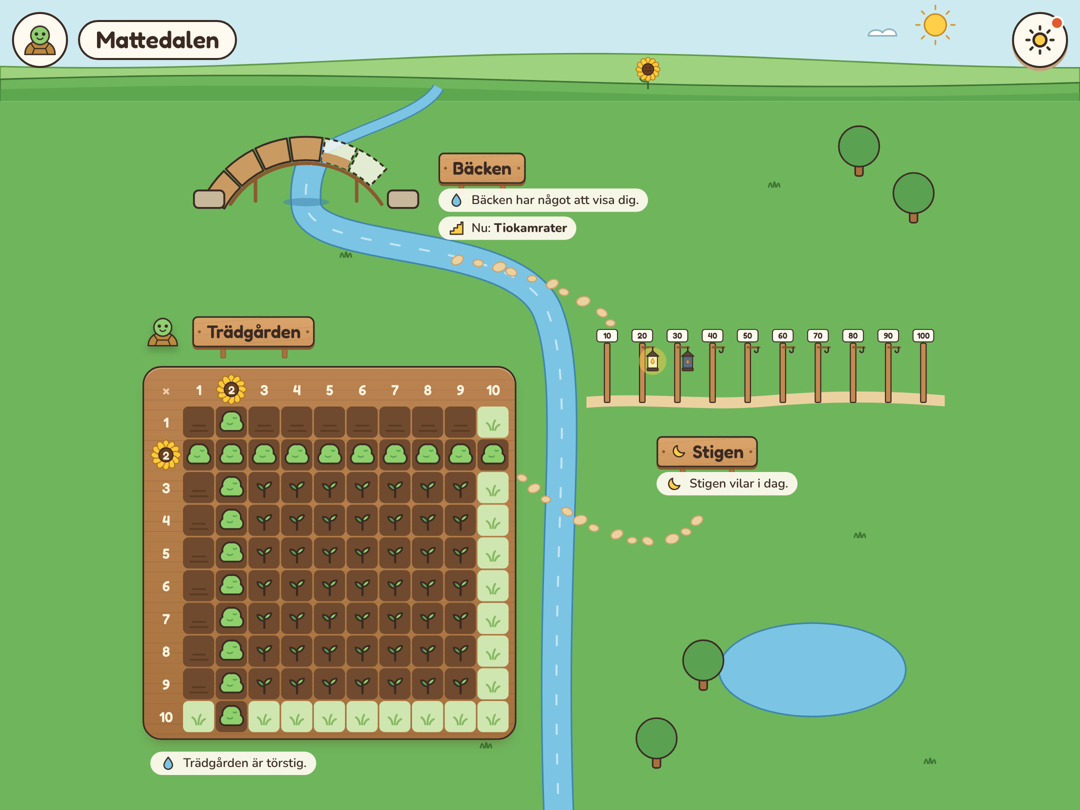
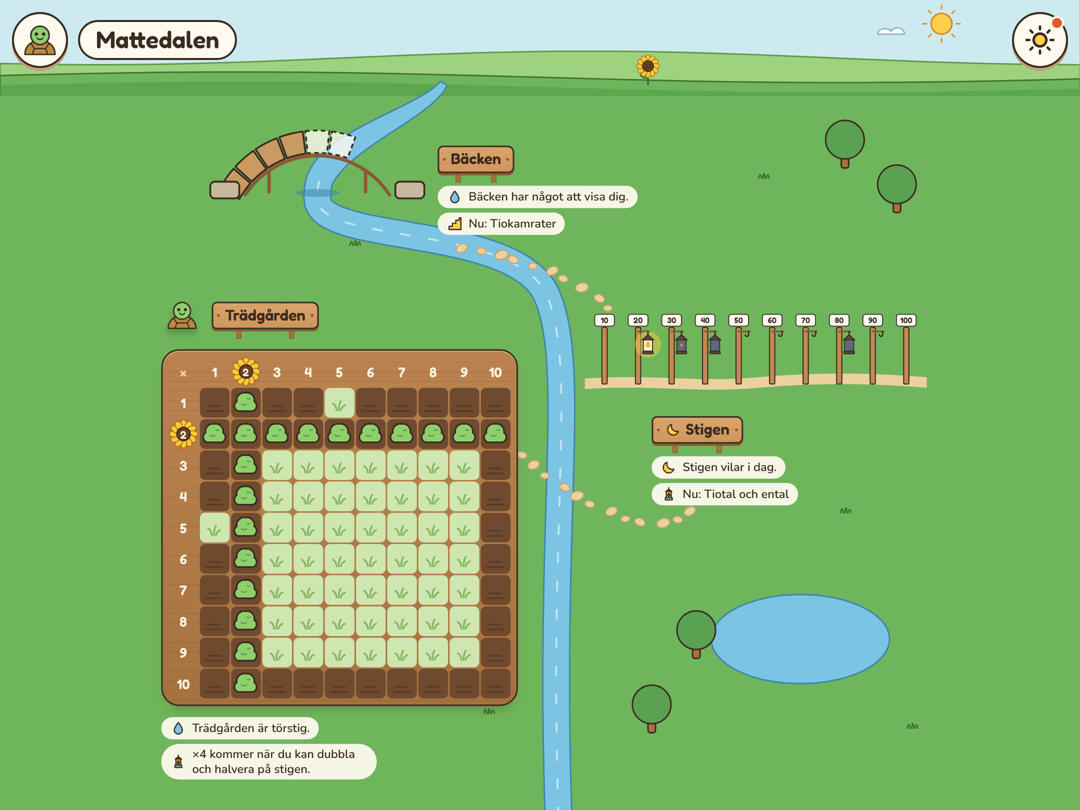
K3: kartan verifierad i alla storlekar
- Skärmbilder av fyra lägen (nytt barn, tre platser, "I dag" öppen och
  trädgården som sover) i sex storlekar. Sidan rullar aldrig.
- Raderna vid en plats bryts i stället för att klippas, och telefonen
  visar bäckens skylt och rader hela på 320 och 360 px.
- Tester för skärmläsare och tangentbord: platserna som en lista med
  skyltar, bilderna i ord, pilarna dolda och utanför tabbordningen, och
  en skylt med fokus rullas in i bild. Med minskad rörelse hoppar kartan.
- PLAN-DALEN med skärmbilder från appen och fynden från K3. R3 är klar i
  färdplanen, och föräldravyn (F) är nästa.

Claude-Session: https://claude.ai/code/session_01NsFq2fAnJdt6rfqAWR7PjB

diff --git a/e2e/valley.spec.ts b/e2e/valley.spec.ts
@@ -306,3 +306,40 @@ test('back from a place, the map stands at that place', async ({ page }) => {
   await expect(page.locator('.map-place.here .map-sign')).toHaveText('Trädgården');
   await expect(page.locator('.map-place.here .map-guide')).toHaveCount(1);
 });
+
+test.describe('the map for a screen reader and the keyboard', () => {
+  test.use({ viewport: { width: 360, height: 760 } });
+
+  test('the places are a list of signs, the pictures are words, and the pointers stay out of the way', async ({ page }) => {
+    await page.goto('/');
+    await createProfile(page, 'Alva');
+    await page.getByRole('button', { name: 'Till dalen' }).click();
+    const list = page.getByRole('list', { name: 'Platserna i dalen' });
+    await expect(list.getByRole('listitem')).toHaveCount(3);
+    await expect(list.getByRole('button')).toHaveText(['Bäcken', 'Stigen', 'Trädgården']);
+    // Every picture is hidden from a screen reader and said in words instead.
+    await expect(page.locator('.map-art:not([aria-hidden="true"])')).toHaveCount(0);
+    await expect(list.getByText(/^Bron har \d+ av \d+ stenar på plats\.$/)).toBeAttached();
+    await expect(list.getByText(/^På stigen lyser \d+ av \d+ lyktor\./)).toBeAttached();
+    await expect(list.getByText('Lådan väntar på de första fröna.')).toBeAttached();
+    // The pointers are a shortcut for those who see: hidden, and out of the tab order.
+    await page.locator('.map-view').evaluate((el) => el.scrollTo(el.scrollWidth, el.scrollHeight));
+    await expect(page.locator('.map-pointer').first()).toBeAttached();
+    await expect(page.locator('.map-pointers')).toHaveAttribute('aria-hidden', 'true');
+    expect(await page.locator('.map-pointer').evaluateAll((els) => els.every((el) => (el as HTMLElement).tabIndex === -1))).toBe(true);
+    // A sign that gets focus is scrolled into view.
+    await page.getByRole('button', { name: /^Bäcken\./ }).focus();
+    await expect.poll(() => inView(page, 'Bäcken')).toBe(true);
+  });
+
+  test('with reduced motion the map jumps instead of gliding', async ({ page }) => {
+    await page.emulateMedia({ reducedMotion: 'reduce' });
+    await page.goto('/');
+    await createProfile(page, 'Alva');
+    await page.getByRole('button', { name: 'Till dalen' }).click();
+    await page.locator('.map-view').evaluate((el) => el.scrollTo(el.scrollWidth, el.scrollHeight));
+    await page.locator('.map-pointer', { hasText: 'Bäcken' }).click();
+    // At once, without waiting for a glide.
+    expect(await inView(page, 'Bäcken')).toBe(true);
+  });
+});

diff --git a/src/shell/valleyLayout.ts b/src/shell/valleyLayout.ts
@@ -33,7 +33,7 @@ export interface Spot {
 
 export const SPOTS: Record<string, Spot> = {
   // The arch over the brook, high up where the brook comes out of the hills; the sign on the bank.
-  backen: { art: { x: 100, y: 168, w: 300 }, sign: { x: 420, y: 196 }, notes: { x: 420, y: 250 }, box: { x: 90, y: 160, w: 640, h: 180 }, focusX: 480 },
+  backen: { art: { x: 100, y: 168, w: 300 }, sign: { x: 412, y: 196 }, notes: { x: 412, y: 250 }, box: { x: 90, y: 160, w: 640, h: 180 }, focusX: 530 },
   // The posts and lanterns along the far bank.
   stigen: { art: { x: 610, y: 400, w: 460 }, sign: { x: 700, y: 560 }, notes: { x: 700, y: 614 }, box: { x: 600, y: 390, w: 470, h: 290 }, focusX: 780 },
   // The whole bed on this side of the brook.

diff --git a/src/shell/styles.css b/src/shell/styles.css
@@ -1174,7 +1174,8 @@ h1:focus {
   flex-direction: column;
   align-items: flex-start;
   gap: 6px;
-  max-width: 420px;
+  /* Narrow enough to fit a small phone beside the place's sign; longer lines wrap. */
+  max-width: 290px;
 }
 
 /* Today's state and what the child is on now: small paper labels in the grass. */

diff --git a/docs/PLAN-DALEN.md b/docs/PLAN-DALEN.md
@@ -17,13 +17,13 @@ På en surfplatta eller dator syns hela dalen på en gång.
 
 ## Bilder
 
-Bilderna är från en attrapp byggd av appens egna delar.
+Bilderna är skärmbilder från appen, för ett barn som har alla tre platser.
 
 ![Telefon: trädgården i bild, pilar mot platserna utanför; samma vy med ”I dag” öppen](img/karta-telefon.png)
 
 *Telefon, 360 px. Till vänster öppnar dalen vid trädgården. Pilarna i kanten
 pekar mot bäcken och stigen. Till höger har barnet tryckt på solen i hörnet,
-och ”I dag” visar vad som återstår.*
+och ”I dag” visar vad som återstår och att stigen vilar.*
 
 ![Surfplatta liggande: hela dalen på en gång](img/karta-bred.png)
 
@@ -102,7 +102,7 @@ och ”I dag” visar vad som återstår.*
 |---|---|
 | K1. Kartan **(klar)** | Kartan med platserna i full storlek, valvbron, bäcken och stenarna, dra runt på telefon, hela dalen på breda skärmar, pilar i kanten, startläge vid dagens plats. Ersätter scenerna från R3a. |
 | K2. I dag och vägen tillbaka **(klar)** | Solen i hörnet och kortet ”I dag” som startar passet. Tillbaka från en plats leder till kartan vid samma plats. |
-| K3. Verifiering | Skärmbilder i alla storlekar, tester för att dra, pilar, ”I dag” och skärmläsare, dokumenten. |
+| K3. Verifiering **(klar)** | Skärmbilder i alla storlekar, tester för att dra, pilar, ”I dag” och skärmläsare, dokumenten. |
 
 ## Fynd från K1
 
@@ -131,6 +131,24 @@ och ”I dag” visar vad som återstår.*
   Dagens plats gäller när barnet kommer från ”Vem spelar?”.
 - **På en telefon på 320 px** blir namnet ”Mattedalen” lite mindre, så att
   solen i andra hörnet får plats.
+
+## Fynd från K3
+
+- **Skärmbilder** av fyra lägen (nytt barn, tre platser, ”I dag” öppen och
+  trädgården som sover) i sex storlekar, från 320 px till dator. Sidan rullar
+  aldrig, varken i sidled eller nedåt.
+- **Raderna vid bäcken klipptes** på en telefon på 320 och 360 px. Raderna vid
+  en plats bryts nu i stället, och telefonen visar bäckens skylt och rader. Bron
+  ligger en bit till vänster, och barnet når den genom att dra.
+- **Uppläsningen fastnade** på en Samsung Galaxy S25 med Chrome och blev tyst
+  tills telefonen startades om. Talmotorn väcks nu före varje uppläsning, och en
+  uppläsning som inte börjar görs om en gång (se
+  [TRADGARDEN.md](TRADGARDEN.md)).
+- **Kartan lägger sig om** även när fönstret ändrar storlek. Två snabba
+  ändringar som slutar i samma storlek märktes annars inte, och kartan stod fel.
+- **Tester för skärmläsare och tangentbord:** platserna är en lista med skyltar,
+  bilderna finns i ord, pilarna är dolda och utanför tabbordningen, och en skylt
+  som får fokus rullas in i bild. Med minskad rörelse hoppar kartan direkt.
 
 ## Vad vi prövade
 

diff --git a/docs/FARDPLAN.md b/docs/FARDPLAN.md
@@ -17,13 +17,12 @@ uppdateras i samma ändring som en fas blir klar.
 
 | # | Fas | Varför nu | Plan | Läge |
 |---|---|---|---|---|
-| 1 | **R3. Dalen som en karta att dra runt i** (K1–K3) | Platserna blev små symboler på den gamla kartan, och scenerna i R3a tappade dalen. | [PLAN-DALEN](PLAN-DALEN.md) | K1–K2 klara, K3 nästa |
-| 2 | **F. Föräldravyn** (F1–F3) | Föräldravyn är en enda lång sida. Piloten behöver en vy som vuxna hittar i. | [PLAN-FORALDRAVYN](PLAN-FORALDRAVYN.md) | Plan klar |
-| 3 | **S2. Tid och långsamma barn** | Ett barn som svarar rätt men långsamt fastnar vid grodden. Måste avgöras före piloten. | [PLAN-GRANSKNING](PLAN-GRANSKNING.md#föreslagna-faser) | Simulering först |
-| 4 | **S3. Räknestig efter det barnet kan** | Räknestigen är fast per fakta. | [PLAN-GRANSKNING](PLAN-GRANSKNING.md#föreslagna-faser) | |
-| 5 | **R4. Tvåsiffrigt minus tvåsiffrigt** | 75 − 23 saknas på Stigen. | Plan skrivs | |
-| 6 | **R5 och S4. Inför piloten** | Loggexport som den vuxna väljer att skicka, frågor till barnen, appens syfte och avstämning mot Lgr22. | [PLAN-GRANSKNING](PLAN-GRANSKNING.md#faser) | |
-| 7 | **Pilot med 6–10 barn** | Prövar progressionen, växterna, kartan och föräldravyn. | Plan skrivs | |
+| 1 | **F. Föräldravyn** (F1–F3) | Föräldravyn är en enda lång sida. Piloten behöver en vy som vuxna hittar i. | [PLAN-FORALDRAVYN](PLAN-FORALDRAVYN.md) | Nästa |
+| 2 | **S2. Tid och långsamma barn** | Ett barn som svarar rätt men långsamt fastnar vid grodden. Måste avgöras före piloten. | [PLAN-GRANSKNING](PLAN-GRANSKNING.md#föreslagna-faser) | Simulering först |
+| 3 | **S3. Räknestig efter det barnet kan** | Räknestigen är fast per fakta. | [PLAN-GRANSKNING](PLAN-GRANSKNING.md#föreslagna-faser) | |
+| 4 | **R4. Tvåsiffrigt minus tvåsiffrigt** | 75 − 23 saknas på Stigen. | Plan skrivs | |
+| 5 | **R5 och S4. Inför piloten** | Loggexport som den vuxna väljer att skicka, frågor till barnen, appens syfte och avstämning mot Lgr22. | [PLAN-GRANSKNING](PLAN-GRANSKNING.md#faser) | |
+| 6 | **Pilot med 6–10 barn** | Prövar progressionen, växterna, kartan och föräldravyn. | Plan skrivs | |
 
 ## Efter piloten
 
@@ -61,3 +60,4 @@ i, med ”I dag” i hörnet i stället för en stor knapp (se
 | R1–R2 | Första granskningen: inga siffror på barnens sidor, väntan i speldagar, simuleringen med tio frön. | [PLAN-GRANSKNING](PLAN-GRANSKNING.md) |
 | – | Siffertangenterna skriver svaret vid flerval. | [TRADGARDEN](TRADGARDEN.md) |
 | S1 | Växterna tar ett steg i taget. Svar med stöd räknas för sig i föräldravyn. | [PLAN-GRANSKNING](PLAN-GRANSKNING.md#fynd-från-s1) |
+| R3 (K1–K3) | Dalen som en karta att dra runt i, med platserna i full storlek och ”I dag” i hörnet. | [PLAN-DALEN](PLAN-DALEN.md) |
